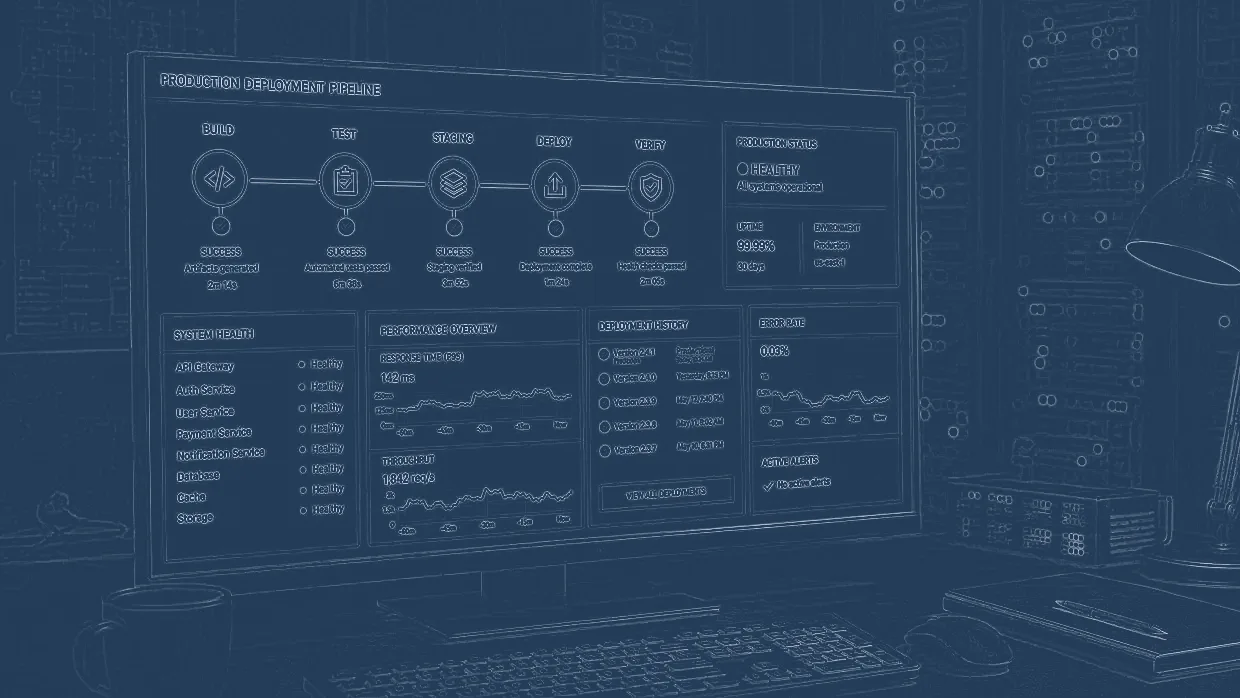
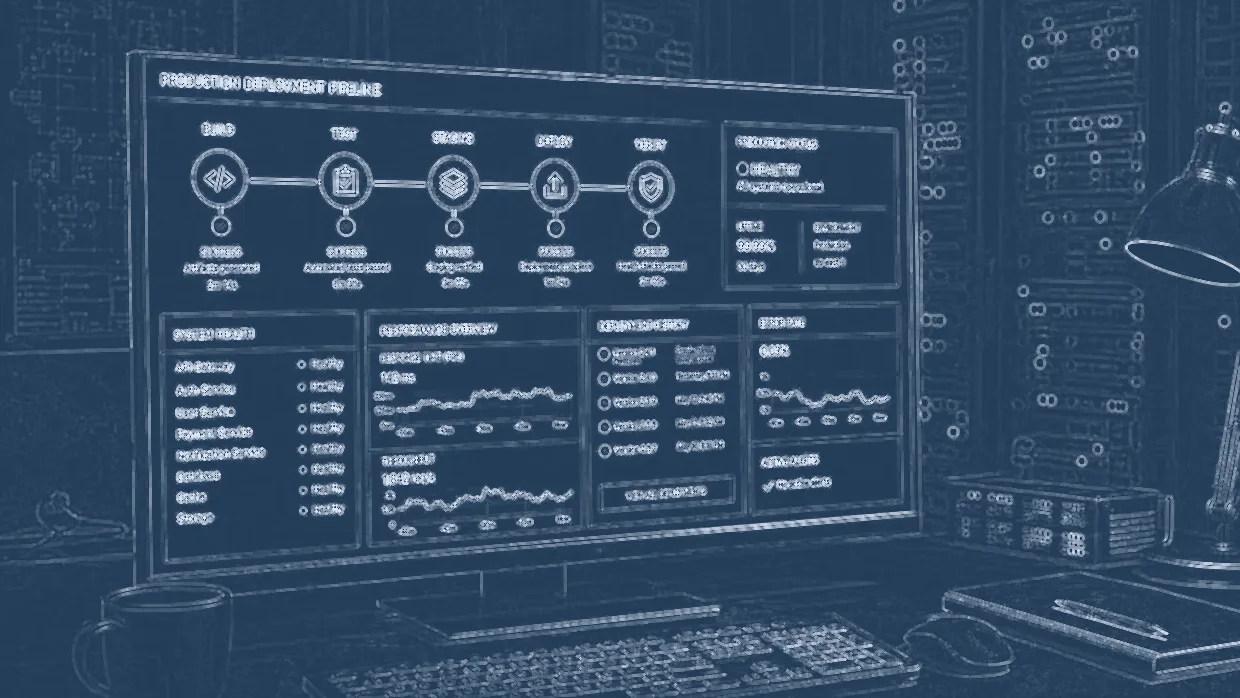
Draw the plates brighter and a pixel thicker
The first pass drew them faint. POW at 1.3 left every stroke mid-grey, and 03's
six print at 132px, where a one-pixel mid-grey line is most of a stroke lost to
resampling -- the drawings were there and you had to look for them.

Two knobs, and the first pass moved neither far enough. POW is applied before
the negate, where the drawing is still dark on white, so raising it pushes each
stroke toward black and therefore toward the book's silver once the image is
inverted: 1.8 carries them most of the way, and past about 2.4 the
photographs' own grain starts coming up as speckle alongside them. DILATE is
the other half and it is thickness rather than brightness -- one pixel added to
every stroke, which is what makes them survive the 132px.

The dilate runs AFTER the negate and the order is not interchangeable. Before
it the ground is white and the strokes are dark, so Dilate -- which grows the
bright region -- would eat the drawing instead of thickening it. Whole pixels
at both widths rather than a fraction of each: morphology takes whole-pixel
kernels and 900 against 1240 does not separate enough to matter.

Plates redrawn from the photographs at 445aec1 rather than from the sketches,
because the script is not idempotent and a second pass finds edges in the first
pass's own strokes. Means are up across the set -- process/discover from 0.247
to 0.301 -- and every median still clears the paper at 0.2036.

QA: four viewports, all exit 0, pinned scrollHeight 7911 unchanged.
[…]

diff --git a/CLAUDE.md b/CLAUDE.md
@@ -1241,8 +1241,23 @@ re-run here.
   each edge over the blur radius, so a wide radius draws haze *around* objects
   instead of a line *along* them — the first run used 5px on a 1240px plate and
   produced a smoky wash. `RADIUS_DIV=1030` puts it at 1.2px there and 0.87 on
-  the 900px services, so one line weight across the book. `POW` comes down with
-  the radius; at 2.0 against 1.2px the fine rules go black.
+  the 900px services, so one line weight across the book.
+- **Brightness and thickness are two different knobs, and the first pass got
+  neither.** At `POW=1.3` the strokes came out mid-grey and the plates read as
+  faint — 03's six print at 132px, where a one-pixel mid-grey line is most of a
+  stroke lost to resampling. `POW` is applied BEFORE the negate, where the
+  drawing is still dark-on-white, so raising it pushes each stroke toward black
+  and therefore toward HIGHLIGHT once inverted; **1.8** carries them most of the
+  way to the book's silver, and past about 2.4 the photographs' own grain comes
+  up as speckle with them. `DILATE=1` is the other half and it is thickness
+  rather than brightness: one pixel added to every stroke.
+
+  **The dilate runs AFTER the negate and the order is not interchangeable.**
+  Before it, the ground is white and the strokes dark, so `Dilate` — which
+  grows the BRIGHT region — eats the drawing instead of thickening it. Whole
+  pixels at both widths rather than a fraction of each, because morphology
+  takes whole-pixel kernels and 900 against 1240 does not separate enough to
+  matter.
 - **The redactions survive**, and this was checked rather than assumed. 04's
   blurred boxes over invented client names are baked into the file this reads,
   a blurred region has no edges, and a sketch cannot recover what a blur
